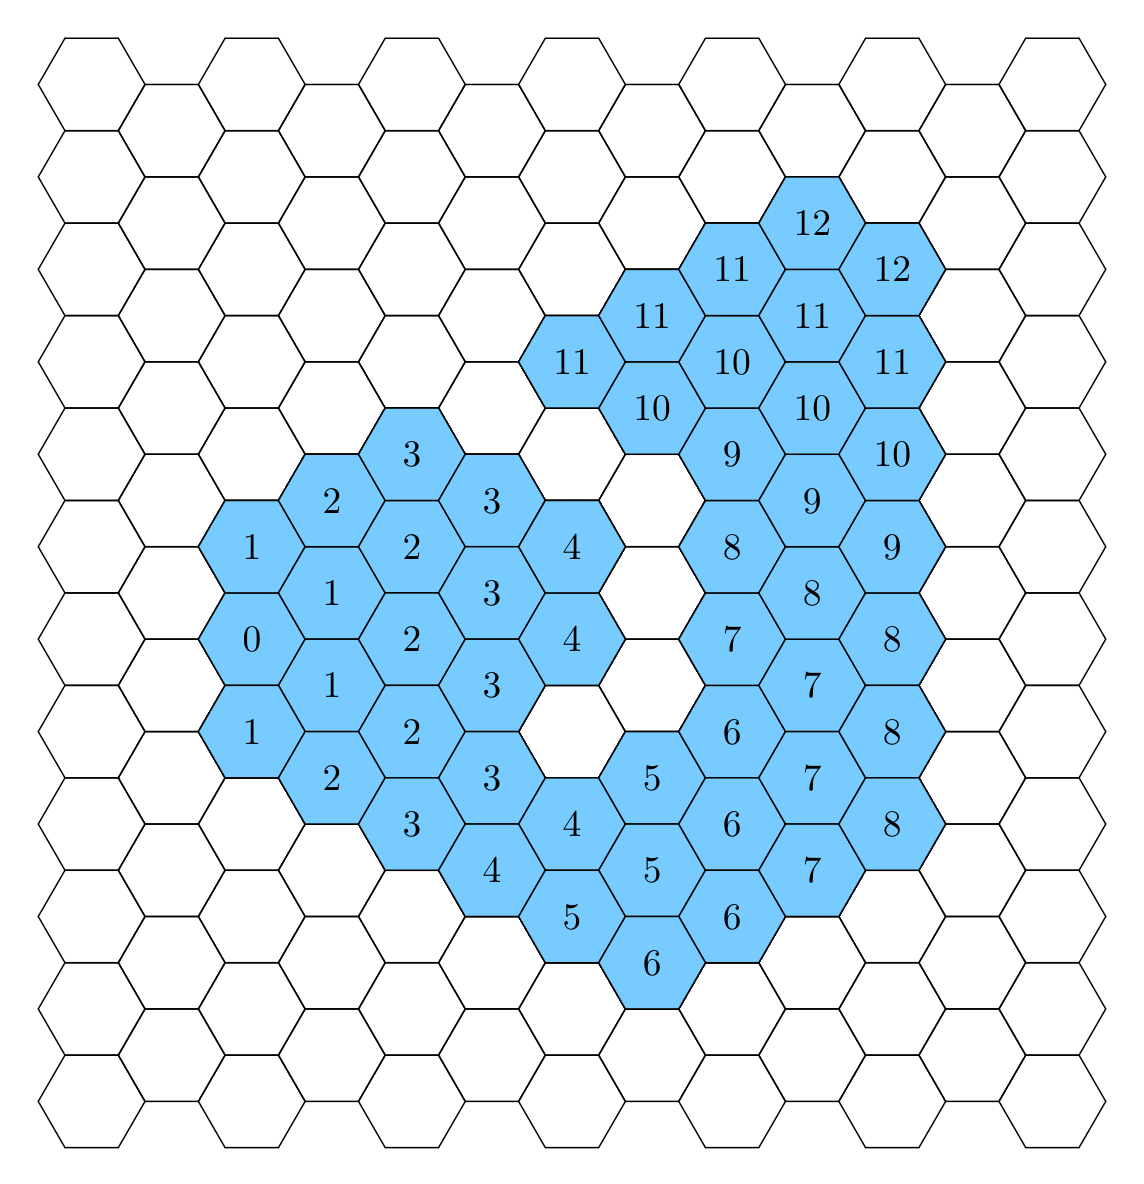
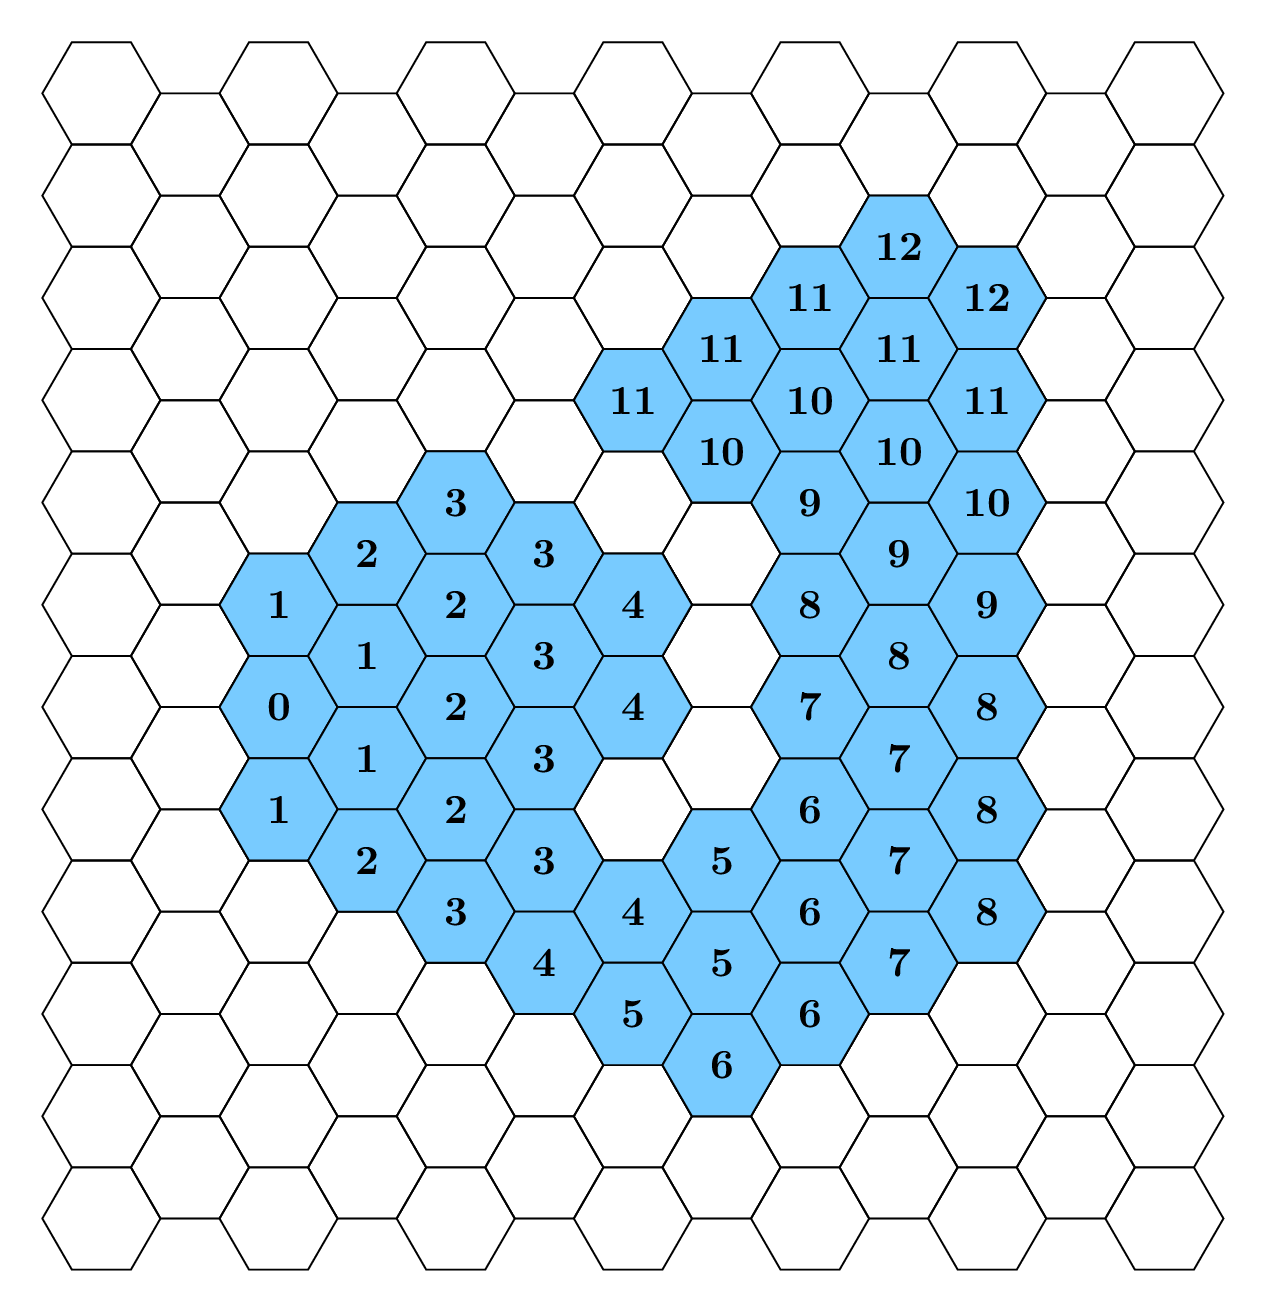
Address proofread feedback for hexagon task statement
The following is the raw feedback from ganweiliang:

- then perform"ing" L[i] steps "in" the chosen direction.
- simple, meaning that "every" cell
- at the beginning and "at" the end
- neither "on" the path nor inside "the path"
- A cell is said to be inside "the path" if it is not "on" the path (no comma) and ... cells using "any" sequence of steps ...
- Probably clearer for the next example to be in bullet points.
	- The cell numbered 1 is the initial, and final, cell.
	- Cells that are numbered are cells "on" the path, "numbered" in the order they are visited.
	- Cells that are shaded darker than the rest "of the cells" are cells that are inside "the path".
- consist of all cells that are "on" the path or inside "the path".

The following is the raw feedback from Pak Mushthofa:

1. Ada 3 gambar hexagon grid, masing-masing memiliki angka pada sebagian hexagon. Namun, arti
dari angka pada hexagon pada ketiga gambar tersebut berbeda semua:
    a. Pada gambar pertama, angka menunjukkan arah.
    b. Pada gambar kedua, angka menunjukkan urutan langkah.
    c. Pada gambar ketiga, angka menunjukkan score.
Menurut saya, ini bisa menjadi sumber kesalahpahaman bagi pembaca soal.
Usulan: Kita bedakan kemunculan angka-angka tersebut supaya menjadi jelas tujuan dan
perbedaannya. Misal, pada gambar pertama, kita berikan panah, sehingga jelas bahwa angka
disini menunjukkan arah. Contoh seperti ini (tolong dirapihkan)
[…]

diff --git a/hexagon/statement/render/distances.tex b/hexagon/statement/render/distances.tex
@@ -8,67 +8,67 @@
 
     \tikzset{hexadist/.style={hexa,fill={rgb,255:red,120;green,203;blue,255}}}
     
-    \node[hexadist] at (h2;5) {0};
+    \node[hexadist] at (h2;5) {\textbf{0}};
 
-    \node[hexadist] at (h2;6) {1};
-    \node[hexadist] at (h3;5) {1};
-    \node[hexadist] at (h3;4) {1};
-    \node[hexadist] at (h2;4) {1};
+    \node[hexadist] at (h2;6) {\textbf{1}};
+    \node[hexadist] at (h3;5) {\textbf{1}};
+    \node[hexadist] at (h3;4) {\textbf{1}};
+    \node[hexadist] at (h2;4) {\textbf{1}};
 
-    \node[hexadist] at (h3;6) {2};
-    \node[hexadist] at (h4;6) {2};
-    \node[hexadist] at (h4;5) {2};
-    \node[hexadist] at (h4;4) {2};
-    \node[hexadist] at (h3;3) {2};
+    \node[hexadist] at (h3;6) {\textbf{2}};
+    \node[hexadist] at (h4;6) {\textbf{2}};
+    \node[hexadist] at (h4;5) {\textbf{2}};
+    \node[hexadist] at (h4;4) {\textbf{2}};
+    \node[hexadist] at (h3;3) {\textbf{2}};
 
-    \node[hexadist] at (h4;7) {3};
-    \node[hexadist] at (h5;6) {3};
-    \node[hexadist] at (h5;5) {3};
-    \node[hexadist] at (h5;4) {3};
-    \node[hexadist] at (h5;3) {3};
-    \node[hexadist] at (h4;3) {3};
+    \node[hexadist] at (h4;7) {\textbf{3}};
+    \node[hexadist] at (h5;6) {\textbf{3}};
+    \node[hexadist] at (h5;5) {\textbf{3}};
+    \node[hexadist] at (h5;4) {\textbf{3}};
+    \node[hexadist] at (h5;3) {\textbf{3}};
+    \node[hexadist] at (h4;3) {\textbf{3}};
     
-    \node[hexadist] at (h6;6) {4};
-    \node[hexadist] at (h6;5) {4};
-    \node[hexadist] at (h6;6) {4};
-    \node[hexadist] at (h6;3) {4};
-    \node[hexadist] at (h5;2) {4};
+    \node[hexadist] at (h6;6) {\textbf{4}};
+    \node[hexadist] at (h6;5) {\textbf{4}};
+    \node[hexadist] at (h6;6) {\textbf{4}};
+    \node[hexadist] at (h6;3) {\textbf{4}};
+    \node[hexadist] at (h5;2) {\textbf{4}};
     
-    \node[hexadist] at (h7;3) {5};
-    \node[hexadist] at (h7;2) {5};
-    \node[hexadist] at (h6;2) {5};
+    \node[hexadist] at (h7;3) {\textbf{5}};
+    \node[hexadist] at (h7;2) {\textbf{5}};
+    \node[hexadist] at (h6;2) {\textbf{5}};
 
-    \node[hexadist] at (h8;4) {6};
-    \node[hexadist] at (h8;3) {6};
-    \node[hexadist] at (h8;2) {6};
-    \node[hexadist] at (h7;1) {6};
+    \node[hexadist] at (h8;4) {\textbf{6}};
+    \node[hexadist] at (h8;3) {\textbf{6}};
+    \node[hexadist] at (h8;2) {\textbf{6}};
+    \node[hexadist] at (h7;1) {\textbf{6}};
     
-    \node[hexadist] at (h8;5) {7};
-    \node[hexadist] at (h9;4) {7};
-    \node[hexadist] at (h9;3) {7};
-    \node[hexadist] at (h9;2) {7};
+    \node[hexadist] at (h8;5) {\textbf{7}};
+    \node[hexadist] at (h9;4) {\textbf{7}};
+    \node[hexadist] at (h9;3) {\textbf{7}};
+    \node[hexadist] at (h9;2) {\textbf{7}};
     
-    \node[hexadist] at (h8;6) {8};
-    \node[hexadist] at (h9;5) {8};
-    \node[hexadist] at (h10;5) {8};
-    \node[hexadist] at (h10;4) {8};
-    \node[hexadist] at (h10;3) {8};
+    \node[hexadist] at (h8;6) {\textbf{8}};
+    \node[hexadist] at (h9;5) {\textbf{8}};
+    \node[hexadist] at (h10;5) {\textbf{8}};
+    \node[hexadist] at (h10;4) {\textbf{8}};
+    \node[hexadist] at (h10;3) {\textbf{8}};
 
-    \node[hexadist] at (h8;7) {9};
-    \node[hexadist] at (h9;6) {9};
-    \node[hexadist] at (h10;6) {9};
+    \node[hexadist] at (h8;7) {\textbf{9}};
+    \node[hexadist] at (h9;6) {\textbf{9}};
+    \node[hexadist] at (h10;6) {\textbf{9}};
     
-    \node[hexadist] at (h7;7) {10};
-    \node[hexadist] at (h8;8) {10};
-    \node[hexadist] at (h9;7) {10};
-    \node[hexadist] at (h10;7) {10};
+    \node[hexadist] at (h7;7) {\textbf{10}};
+    \node[hexadist] at (h8;8) {\textbf{10}};
+    \node[hexadist] at (h9;7) {\textbf{10}};
+    \node[hexadist] at (h10;7) {\textbf{10}};
     
-    \node[hexadist] at (h6;8) {11};
-    \node[hexadist] at (h7;8) {11};
-    \node[hexadist] at (h8;9) {11};
-    \node[hexadist] at (h9;8) {11};
-    \node[hexadist] at (h10;8) {11};
+    \node[hexadist] at (h6;8) {\textbf{11}};
+    \node[hexadist] at (h7;8) {\textbf{11}};
+    \node[hexadist] at (h8;9) {\textbf{11}};
+    \node[hexadist] at (h9;8) {\textbf{11}};
+    \node[hexadist] at (h10;8) {\textbf{11}};
     
-    \node[hexadist] at (h9;9) {12};
-    \node[hexadist] at (h10;9) {12};
+    \node[hexadist] at (h9;9) {\textbf{12}};
+    \node[hexadist] at (h10;9) {\textbf{12}};
 \end{tikzpicture}

diff --git a/hexagon/statement/render/path.tex b/hexagon/statement/render/path.tex
@@ -45,22 +45,22 @@
     \node[hexapath] at (h3;3) {34};
     \node[hexapath] at (h2;4) {35};
 
-    \tikzset{hexain/.style={hexa,fill={rgb,255:red,8;green,67;blue,161},text=black}}
+    \tikzset{hexain/.style={hexa,fill={rgb,255:red,8;green,67;blue,161},text=white}}
 
-    \node[hexain] at (h3;4) {};
-    \node[hexain] at (h3;5) {};
-    \node[hexain] at (h4;4) {};
-    \node[hexain] at (h4;5) {};
-    \node[hexain] at (h4;6) {};
-    \node[hexain] at (h5;5) {};
-    \node[hexain] at (h7;2) {};
-    \node[hexain] at (h8;3) {};
-    \node[hexain] at (h9;3) {};
-    \node[hexain] at (h9;4) {};
-    \node[hexain] at (h9;5) {};
-    \node[hexain] at (h9;6) {};
-    \node[hexain] at (h9;7) {};
-    \node[hexain] at (h9;8) {};
-    \node[hexain] at (h8;8) {};
+    \node[hexain] at (h3;4) {$\times$};
+    \node[hexain] at (h3;5) {$\times$};
+    \node[hexain] at (h4;4) {$\times$};
+    \node[hexain] at (h4;5) {$\times$};
+    \node[hexain] at (h4;6) {$\times$};
+    \node[hexain] at (h5;5) {$\times$};
+    \node[hexain] at (h7;2) {$\times$};
+    \node[hexain] at (h8;3) {$\times$};
+    \node[hexain] at (h9;3) {$\times$};
+    \node[hexain] at (h9;4) {$\times$};
+    \node[hexain] at (h9;5) {$\times$};
+    \node[hexain] at (h9;6) {$\times$};
+    \node[hexain] at (h9;7) {$\times$};
+    \node[hexain] at (h9;8) {$\times$};
+    \node[hexain] at (h8;8) {$\times$};
 
 \end{tikzpicture}

diff --git a/hexagon/statement/render/directions.tex b/hexagon/statement/render/directions.tex
@@ -5,14 +5,21 @@
     \else
          \foreach \i in {0,...,4}{\node[hexa] (h\j;\i) at ({\j/2+\j/4},{\i*sin(60)}) {};}
     \fi}
-    \node[hexa,fill={rgb,255:red,255;green,120;blue,128}] at (h2;2) {};
+    \node[hexa,fill={rgb,255:red,255;green,120;blue,128}] at (h2;2) (0) {};
 
     \tikzset{hexadir/.style={hexa,fill={rgb,255:red,120;green,203;blue,255},text=black}}
 
-    \node[hexadir] at (h2;3) {1};
-    \node[hexadir] at (h3;2) {2};
-    \node[hexadir] at (h3;1) {3};
-    \node[hexadir] at (h2;1) {4};
-    \node[hexadir] at (h1;1) {5};
-    \node[hexadir] at (h1;2) {6};
+    \node[hexadir] at (h2;3) (1) {};
+    \node[hexadir] at (h3;2) (2) {};
+    \node[hexadir] at (h3;1) (3) {};
+    \node[hexadir] at (h2;1) (4) {};
+    \node[hexadir] at (h1;1) (5) {};
+    \node[hexadir] at (h1;2) (6) {};
+
+    \draw [-latex] (0.center) -- (1.center) node[pos=1.2] {1};
+    \draw [-latex] (0.center) -- (2.center) node[pos=1.2] {2};
+    \draw [-latex] (0.center) -- (3.center) node[pos=1.2] {3};
+    \draw [-latex] (0.center) -- (4.center) node[pos=1.2] {4};
+    \draw [-latex] (0.center) -- (5.center) node[pos=1.2] {5};
+    \draw [-latex] (0.center) -- (6.center) node[pos=1.2] {6};
 \end{tikzpicture}

diff --git a/hexagon/statement/render/main.tex b/hexagon/statement/render/main.tex
@@ -1,3 +1,11 @@
+% Render the images using the following commands:
+%
+% pdflatex main.tex
+% convert -density 300 -background white -alpha remove -alpha off main.pdf main.png
+% mv main-0.png directions.png
+% mv main-1.png path.png
+% mv main-2.png distances.png
+
 \documentclass[tikz,border=10pt]{standalone}
 \usepackage{tikz}
 \usetikzlibrary{shapes}

diff --git a/hexagon/statement/index.md b/hexagon/statement/index.md
@@ -7,15 +7,18 @@ In one step, Pak Dengklek can move from one cell to one of its neighbours by mov
 ![](render/directions.png = 200x)
 
 Pak Dengklek will form a territory by following a path that consists of a sequence of cells that are visited by a sequence of $N$ moves.
-The $i$-th move is made by choosing a direction $D[i]$, then perform $L[i]$ steps towards the chosen direction.
+The $i$-th move is made by choosing a direction $D[i]$, then performing $L[i]$ steps in the chosen direction.
 The path has the following properties:
 * The path is *closed*, meaning that the cell at the end of the sequence is the same as the cell at the beginning of the sequence.
-* The path is *simple*, meaning that a cell can be visited at most once, except for the initial cell, which is visited exactly twice (at the beginning and the end).
+* The path is *simple*, meaning that every cell can be visited at most once, except for the initial cell, which is visited exactly twice (at the beginning and at the end).
 * The path is *exposed*, meaning that each cell in the path is neighbouring with at least one cell that is neither in the path nor is *inside*.
-  * A cell is said to be *inside* if it is not in the path, and you can only visit a finite number of cells using some sequence of steps without visiting any cell in the path.
+  * A cell is said to be *inside* if it is not in the path and you can only visit a finite number of cells using any sequence of steps without visiting any cell in the path.
 
 The following is an example of a path that can be followed by Pak Dengklek.
-The cell numbered $1$ is the initial cell, cells that are numbered are cells in the path (in the order they are visited), and cells that are shaded darker than the rest are cells that are inside.
+
+* The cell numbered $1$ (shaded pink) is the initial (and final) cell.
+* Cells that are numbered (shaded light blue) are cells in the path, numbered in the order they are visited.
+* Cells that are crossed (shaded dark blue) are cells that are inside.
 
 ![](render/path.png = 450x)
 
